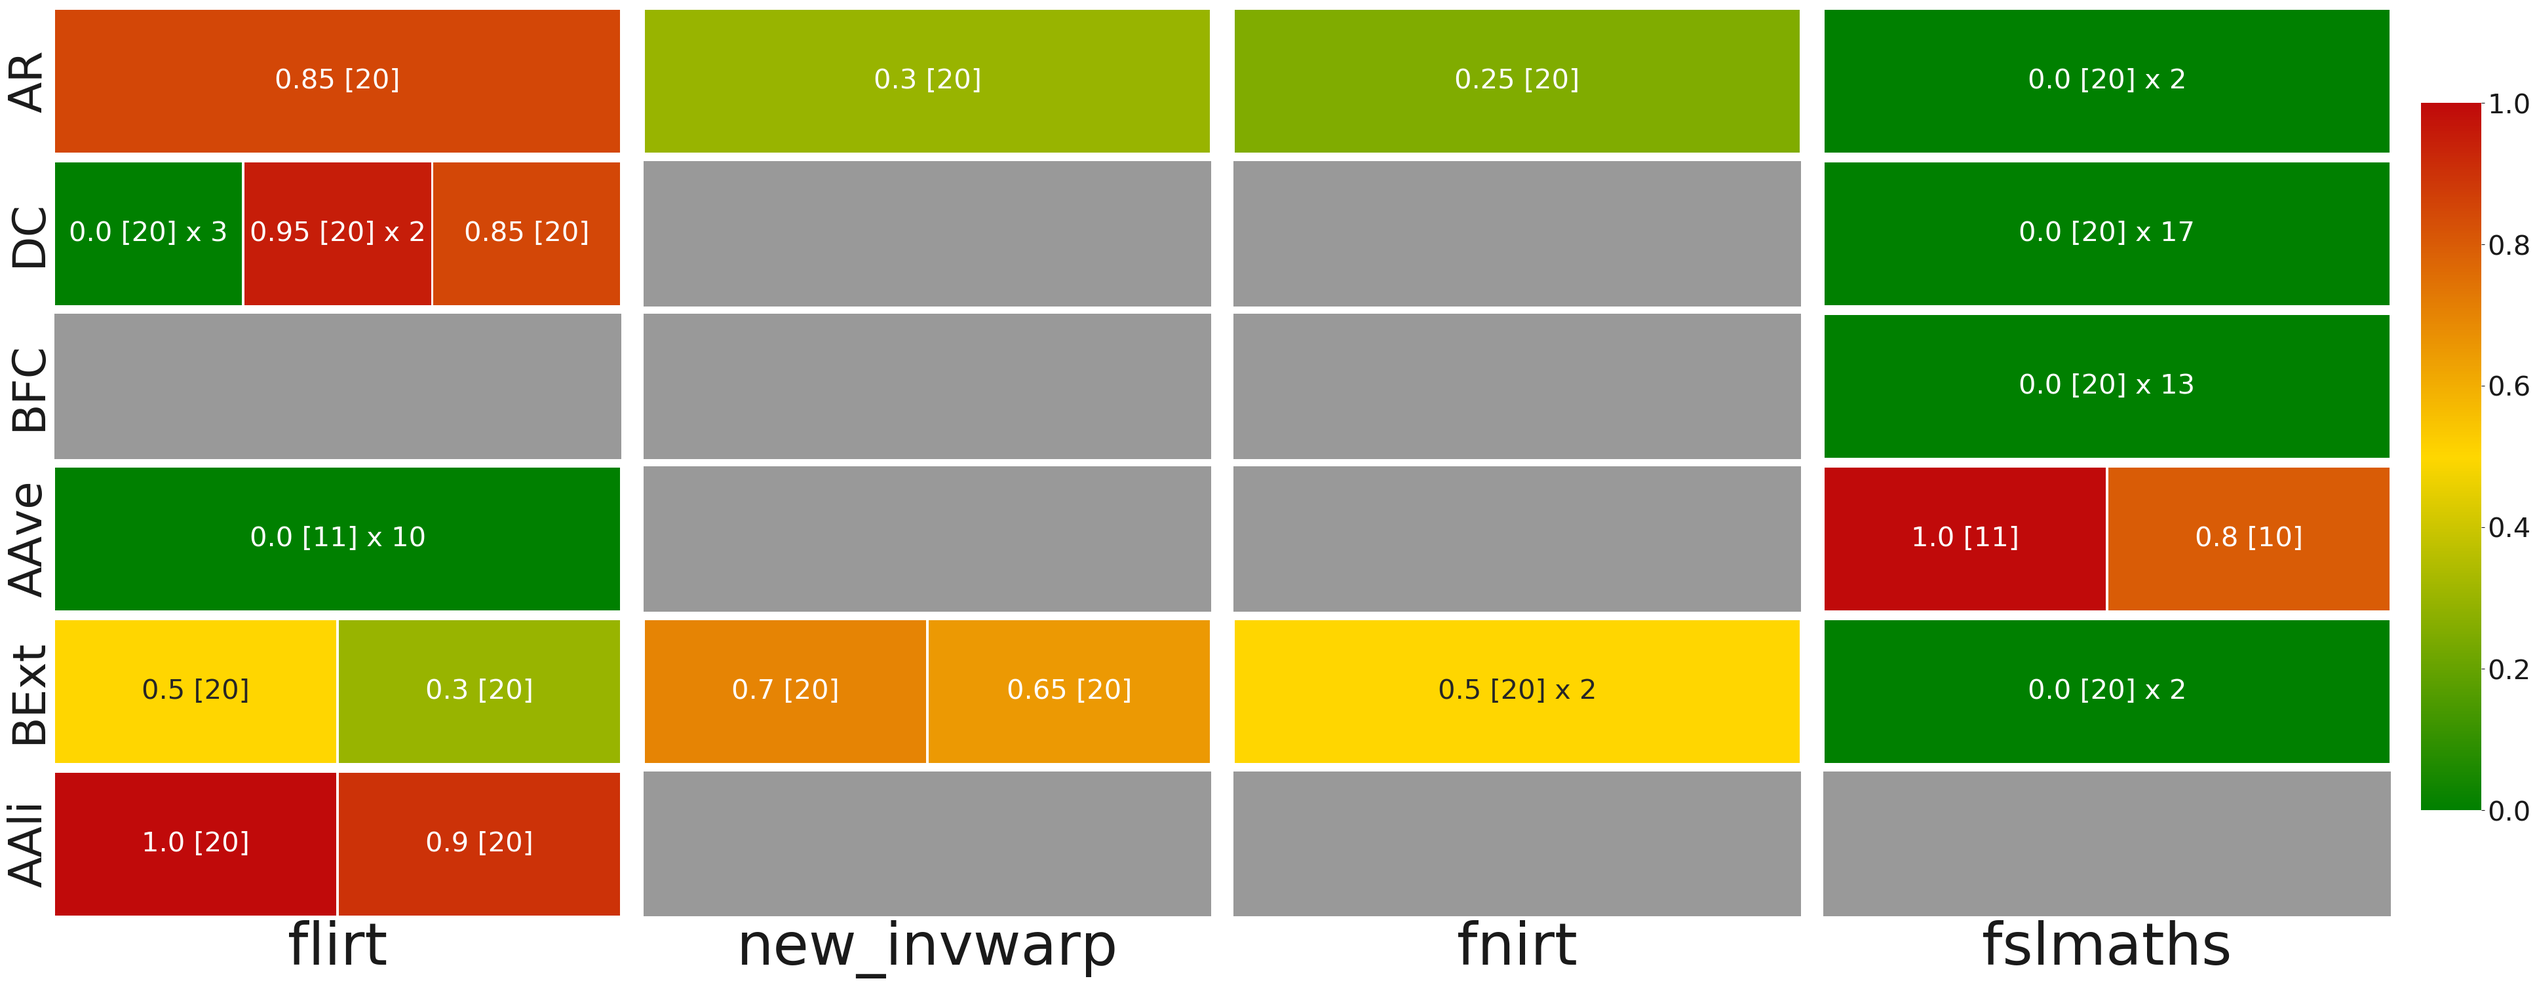
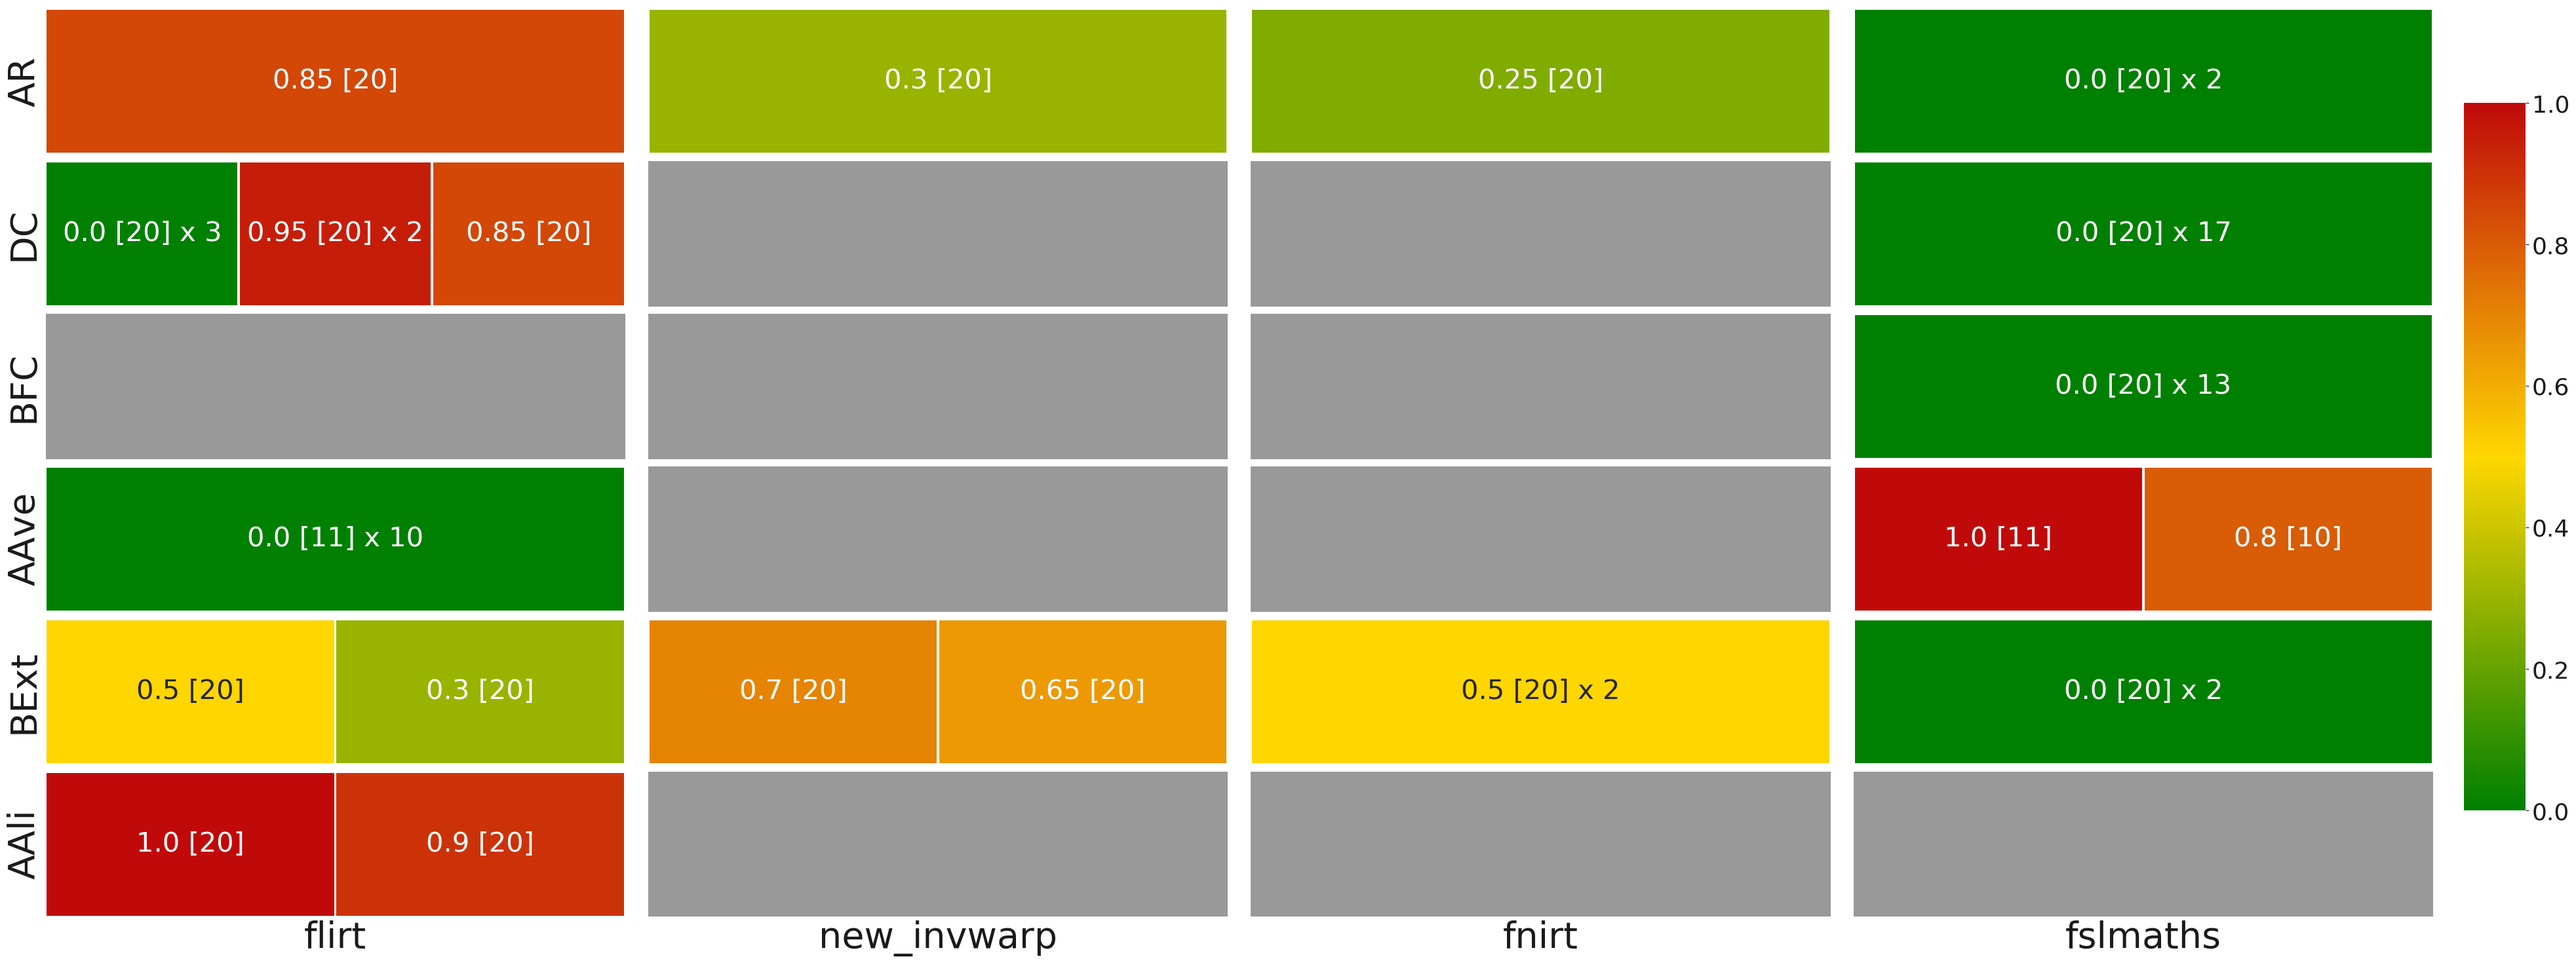
update result images and add discussion

diff --git a/paper.tex b/paper.tex
@@ -764,13 +764,15 @@ mostly creates different files in \emph{AAli} sub-pipeline.
 Furthermore, different frequencies show the variability between subjects.
 Results show that the same process can be reproducible for some subjects but not for others. 
 Between subject differences can be a result of different subject types. 
-The similar findings in the other studies show that the subject 
-is an important factor in reproducibility~\cite{bowring2019exploring}.
+For instance, the subjects contain two T1 images need more calculations 
+to produce an average image between them.
+The similar findings in another study~\cite{bowring2019exploring} were reported 
+the effect of subject type on reproducibility.
 
 % make figure in two columns use {figure*}
-\begin{figure}
+\begin{figure*}
 \centering
-  \includegraphics[width=\columnwidth,height=4cm]{images/pfs_heatmap.png}
+  \includegraphics[width=\textwidth]{images/pfs_heatmap.png}
   \caption{Heatmap frequency of processes along with the sub-pipelines that introduce 
            differences among 20 subjects. 
            Each column represents the pipeline tool, and each row shows the sub-pipeline.
@@ -785,7 +787,7 @@ is an important factor in reproducibility~\cite{bowring2019exploring}.
            proportion of occurrences of the processes with differences.
            Also, grey cells indicate that the pipeline tool is not executed in the sub-pipeline.}
   \label{fig:pfs_freq}
-\end{figure}
+\end{figure*}
 
 
 Figure~\ref{fig:fnirt_result} 
@@ -802,11 +804,9 @@ procedure.
     \includegraphics[width=\columnwidth]{images/t2w_alignment.png} 
     \caption{Differences between FNIRT results of one subject from PreFreeSurfer 
     (checkerboard image \emph{T2w\_acpc\_to\_MNI\_nonli.nii.gz}) (CentOS6 vs. 
-    CentOS7). Sagittal (top) and axial (bottom) views of the brain in dimension of X=130, Y=155, Z=130.
-    Right images show the zoomed version part of the images marked by the red rectangle.
-    Here is 
+    CentOS7). Sagittal (left) and coronal (right) views of the brain are in dimension of X=130, Y=155, Z=130.
     \href{https://github.com/ali4006/HCP-reproducibility-paper/blob/master/images/pfs_t2w_alignment.gif}
-    {the link} to the gif animation of the same images.
+    {the link} to the animated version of alignment results shows the better visualization of differences.
 } 
     \label{fig:fnirt_result}
 \end{figure}
@@ -831,11 +831,13 @@ from 20 subject results of the brain tissue segmentation across OSes.
 This figure shows between-OS differences  
 as a result of the propagation and amplification of differences in FreeSurfer. 
 Differences are mostly localized at the interfaces between tissues.
+In our dataset, we found subjects with the min and max Dice coefficient 
+values of 0.89 and 0.96 respectively.
 
-Furthermore, Figure~\ref{fig:scatter_plot} plots the mean of Dice coefficients 
-for the 45 segmented regions obtained on two operating systems.
+Furthermore, Figure~\ref{fig:scatter_plot} plots the Dice coefficients 
+for the 44 segmented regions obtained on the two operating systems.
 High Dice coefficients (more than 0.95) in most of the regions indicate minor differences.
-Dice values can be very low , down to 0.5, in particular in small structures 
+Dice values can be very low, down to 0.5, in particular in small structures 
 such as the vessels and lateral ventricles.
 
 
@@ -846,23 +848,25 @@ such as the vessels and lateral ventricles.
   \caption{Heatmap binarized differences between brain segmentation results (file \emph{aseg.hires.mgz}) from 
           20 subjects in FreeSurfer (CentOS6 vs. CentOS7). 
           All binarized differences were resampled to the default MNI152 volume template.
-          Here is 
           \href{https://github.com/ali4006/HCP-reproducibility-paper/blob/master/images/fs_brain_segmentation.gif}
-          {the link} to the gif animation from a single subject.} 
+          {The link} to the animated version of segmentation results of one subject represents the significance of differences.} 
   \label{fig:tissue_class}
 \end{figure}
 
 
-\begin{figure}
+\begin{figure*}
   \centering
-    \includegraphics[width=\columnwidth]{images/scatter_plot.png} 
-    \caption{The scatter plot of the mean of Dice coefficients between segmented regions 
-            from 20 subjetcs in FreeSurfer (CentOS6 vs. CentOS7). 
-            The complete Dice coefficient values are 
+    \includegraphics[width=\textwidth]{images/scatter_plot.png} 
+    \caption{The scatter plots of the Dice coefficients between segmented regions 
+            from 20 subjects in FreeSurfer (CentOS6 vs. CentOS7). 
+            The x-axes are the average number of voxels in each region.
+            Regions are divided into four sub-plots from the smallest regions in the top-left plot 
+            to the largest ones in the bottom-right plot.
+            The complete table of Dice coefficient values is 
             \href{https://github.com/ali4006/HCP-reproducibility-paper/blob/master/data/dice_values.csv}
             {available}.} 
     \label{fig:scatter_plot}
-  \end{figure}
+  \end{figure*}
 
 
 \section{Discussion}
@@ -873,30 +877,32 @@ The numerical instability in the
 PreFreeSurfer HCP pipeline arises mainly from linear 
 registration processes implemented in FSL \emph{FLIRT}. 
 We can see that \emph{FLIRT} creates differences in almost all the sub-pipelines. 
-Therefore, it is important to investigate the registration procedure and find 
-a way to stabilize this process. 
+We monitored the library system calls using \emph{ltrace} to check that registration processes
+use the same libraries. There were no differences in the library dependencies used by 
+the tool in two operating systems, but we found a different number of calls to the \emph{glibc}.
+More investigations need to stabilize registration processes.
+
 
 In the second experiment, 
 the analysis results obtained by the pipeline show that between-OS differences are visually substantial.
-We see that statically builds of the pipeline improves reproducibility, but 
-it would not improve the numerical stability of the pipeline. 
+The statically builds of the pipeline would not improve the numerical stability of the pipeline. 
 FreeSurfer pipeline propagates and amplifies the numerical differences that are created by the 
 differences in the underlying operating system libraries.
+These results are consistent with the findings in the paper~\cite{Glatard2015}, 
+as it has confirmed the propagation of differences in cortical thickness extraction analysis using FreeSurfer.
 
-In addition to variations of the operating system, other factors exist which may influence 
-the reproducibility of the analyses such as software versions, compilers, hardware, etc.
-Generally, we can use the Monte Carlo Arithmetic (MCA) to determine the numerical stability of the pipelines.
-This algorithm perturbs every floating-point operation 
-in the analysis based on the random rounding in each run. 
-By this algorithm, NURM-tool can easily locate which parts of the analyzed source code are responsible 
-for the floating-point related instabilities.
+We obtained results between-OS versions; further investigations could be done over the OS families (e.g., Linux VS. Windows).
+In addition to variations of the operating system, numerical instability of the pipelines have been 
+explored when varying software, hardware and implementation details, or by adding negligible perturbations.
+In the field of numerical analysis, we can investigate these issue using the Monte Carlo Arithmetic (MCA), 
+a method instrumenting floating-point operations based on the random rounding algorithms at a target precision.
+By this algorithm, we can locate the instabilities for the given pipeline, tool, or operations.
 
 Although we identify the processes in the pipeline that create differences, 
 the amplification of these differences should be quantified in the future works.
+We can use distance-preserving hashes rather than MD5 checksums or metrics specific to the file type like Dice coefficient 
+for the registration processes to measure the magnitude of differences. 
 
-\note{FREESURFER RESULTS: 
-These are consistant results to the paper~\cite{Glatard2015}, as it is shown the propaggation of differences in cortical thickness extraction analysis.
-The magnitude of differences from the operating system changes is out of our expectaion}
 
 \section{Conclusion}
 
@@ -911,8 +917,11 @@ processing is done on a more controlled environment,
 (4) building static executables by removing the host operating system library dependencies. 
 These solutions only make the problem invisible, but the pipelines are stiil unstable.
 
-The preferred solution is to find the origin of amplification of the differences and 
+\note{The preferred solution is to find the origin of amplification of the differences and 
 then fixing the particular functions/modules in the processing pipelines. 
+Bagging is a fundamental technique toward reducing the instability of the analysis.
+Therefore, we can use bagging for the parts in the pipeline that amplify differences, 
+but it still is computationaly expensive. }
 
 
 \section{Acknowledgments}
